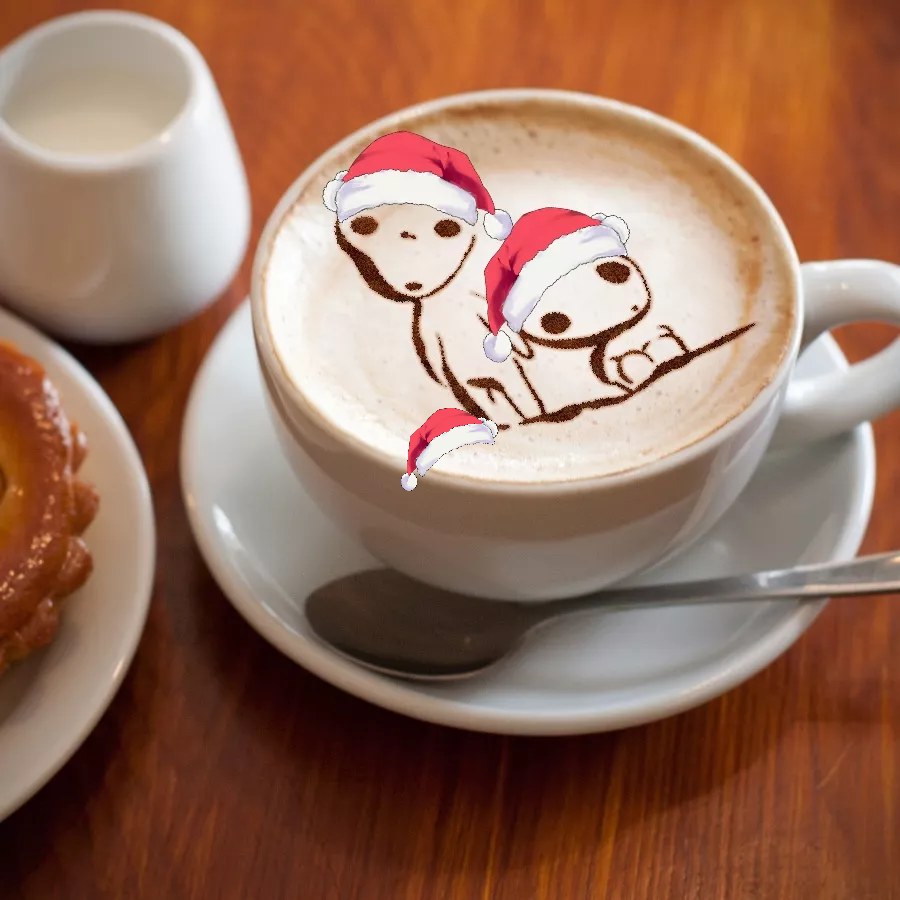
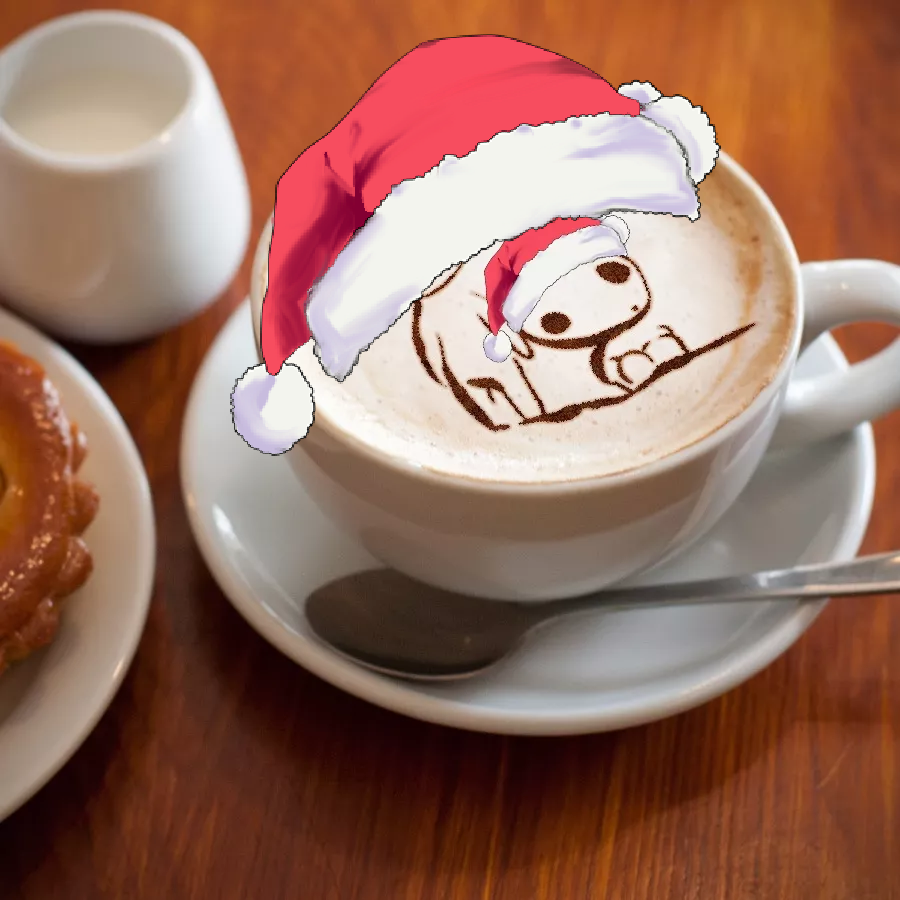
Added height/width manipulation and a help command using -i or -help

Changed region(s): [[0.2489, 0.0311, 0.8089, 0.5289], [0.4356, 0.4356, 0.56, 0.56]]

diff --git a/botmain.py b/botmain.py
@@ -16,21 +16,33 @@ async def on_ready():
 
 @client.command(pass_context=True)
 async def for_shed(ctx):
-    image = Image.open("users/shed/lugia.png")
-    await client.send_file(ctx.message.channel, image)
+    await client.send_file(ctx.message.channel, "users/shed/lugia.png")
 
 
-def check_args(args):
+def check_hat(args):
     hat = Image.open("crimmis_hats/cryms.png")
     for arg in args:
-        if arg == '--flip':
+        if arg == '-flip':
             hat = hat.transpose(Image.FLIP_LEFT_RIGHT)
-        if arg.startswith('--scaled='):
+        if arg.startswith('-scaled='):
             value = float(arg.split('=')[1])
             w, h = hat.size
             w_scaled, h_scaled = (int(w * value), int(h * value))
             hat = hat.resize((w_scaled, h_scaled))
     return hat
+
+
+def check_dim(args, image_h, image_w, hat_w):
+    width = (image_w - hat_w) // 2
+    height = int(image_h - (.9 * image_h))
+    for arg in args:
+        if arg.startswith('-w='):
+            value = int(arg.split('=')[1])
+            width = ((image_w - hat_w) // 2) + value
+        if arg.startswith('-h='):
+            height = int(arg.split('=')[1])
+
+    return width, height
 
 
 @client.command(pass_context=True)
@@ -42,22 +54,29 @@ async def puthat(ctx, *args):
     :param ctx: Context of the message, i.e. sender/channel/attachments
     :param args: Optional flags to manipulate image
     """
+    if '-i' or '-help' in args:
+        string = "Usage q!puthat:\n" \
+                 " -\t flip [flips hat horizontally]\n" \
+                 " -\t scaled=NUMBER [resizes hat by a factor of NUMBER]\n" \
+                 " -\t w=NUMBER [shifts hat horizontally by NUMBER px\n" \
+                 " -\t h=NUMBER [shifts hat vertically by NUMBER px"
+        await client.send_message(ctx.message.channel, content=string)
+        return
+
     message = ctx.message
     url = message.author.avatar_url
-    print("{} in {} called put_hat. Executing...".format(message.author, message.channel), end="")
     response = requests.get(url, headers={'User-agent': 'Mozilla/5.0'})
 
     image = Image.open(BytesIO(response.content))
-    hat = check_args(args)
+    hat = check_hat(args)
     image_w, image_h = image.size
     hat_w, hat_h = hat.size
 
-    offset = ((image_w - hat_w) // 2, (image_h - hat_h) // 2)
-    image.paste(hat, offset, mask=hat)
+    w_offset, h_offset = check_dim(args, image_h, image_w, hat_w)
+    image.paste(hat, (w_offset, h_offset), mask=hat)
     image.save("crimmis_hats/remade.png")
 
     await client.send_file(message.channel, "crimmis_hats/remade.png", filename="newhat.png", content="Hat: ")
-    print("...command complete.")
 
 
 client.run('BOT_TOKEN')
